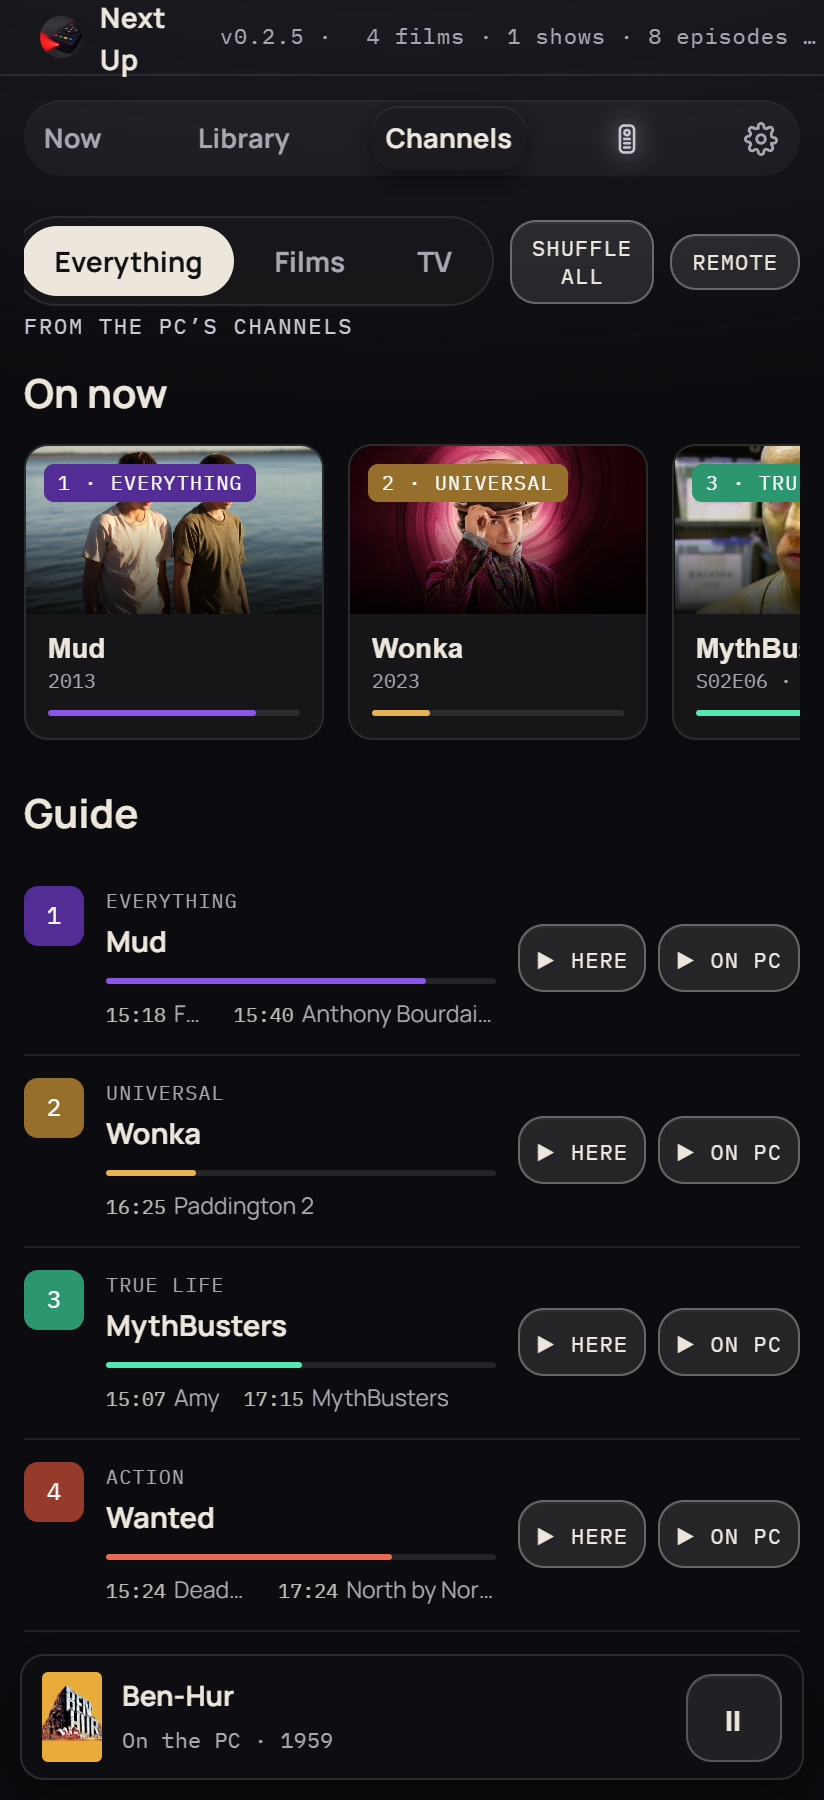
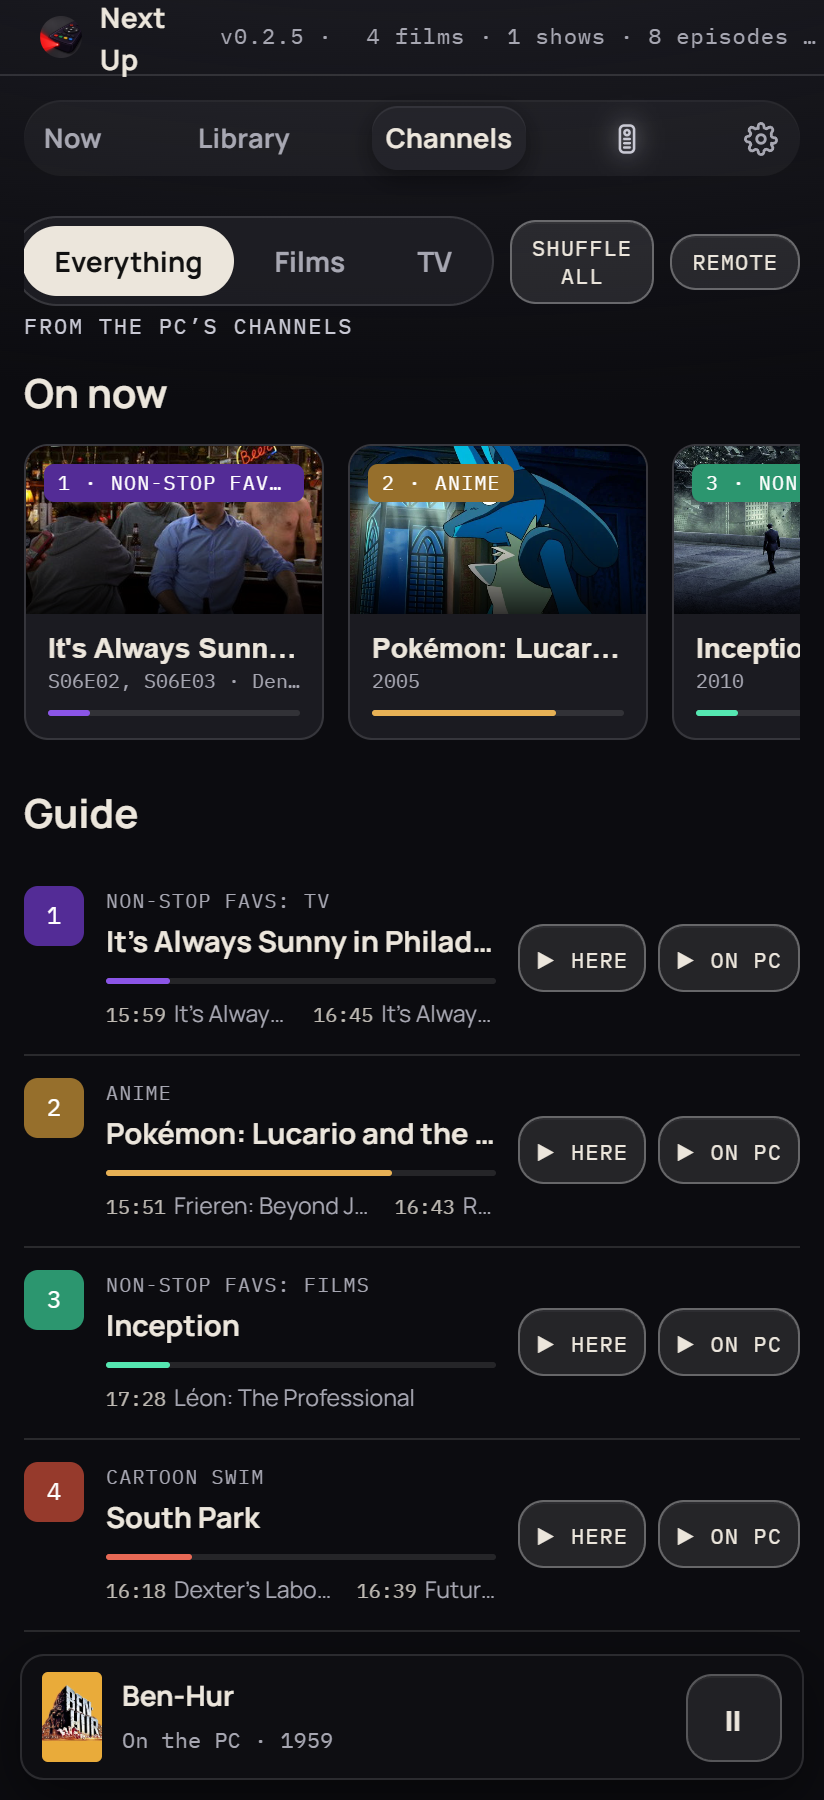
Rate: Films/TV and Refresh up in the header row; README: Films, Hall of Fame, Settings, Now's genres, an open episode, a guide hover in your channel order, and what Watch in order means
Also tests: phone_serve drains the pretend PC's output (it hung after a minute), and NEXTUP_KEEP_CHANNEL_ORDER keeps your channel order in a sandbox.

diff --git a/nextup.py b/nextup.py
@@ -17735,6 +17735,16 @@ body.android .gnowpic{height:84px}
   font-family:var(--display);font-weight:700;font-size:14px;cursor:pointer}
 .ratmode[aria-selected="true"]{background:var(--paper);color:#111}
 .ratmode #ratleft{font-family:var(--mono);font-weight:400;font-size:11px;opacity:.75}
+/* Films / TV shows and Refresh, in the header's row (2026-10-28): the
+   queue had a whole filter bar to itself, a third of the page before the
+   film. Refresh sits at the far end, quieter than the switch. */
+.ratkindbtn{background:none;border:0;border-radius:999px;padding:8px 16px;color:var(--muted);
+  font-family:var(--display);font-weight:700;font-size:14px;cursor:pointer}
+.ratkindbtn[aria-selected="true"]{background:rgba(255,255,255,.12);color:var(--paper)}
+.ratkindbtn:hover{color:var(--paper)}
+.ratrefresh{margin-left:auto;background:none;border:1px solid var(--line);border-radius:999px;padding:9px 18px;
+  color:var(--paper);font-family:var(--mono);font-size:11px;letter-spacing:.08em;text-transform:uppercase;cursor:pointer}
+.ratrefresh:hover{border-color:var(--muted);background:var(--ink-2)}
 .famehead{margin:0 0 16px}
 .famehead h2{margin:0 0 4px;font-size:24px}
 .famehead p{margin:0;color:var(--muted)}
@@ -20793,20 +20803,20 @@ body.android #view-settings{overflow-x:hidden}
         <div class="ratswitch hidden" id="fameback">
           <button type="button" class="ratpill">‹ All shelves</button>
         </div>
+        <div class="ratswitch ratkind" id="ratkind" role="tablist" aria-label="What to rate">
+          <button type="button" class="ratkindbtn" data-kind="film" role="tab" aria-selected="true">Films</button>
+          <button type="button" class="ratkindbtn" data-kind="tv" role="tab">TV shows</button>
+        </div>
+        <select id="rate_kind" hidden>
+          <option value="film">Films</option>
+          <option value="tv">TV shows</option>
+        </select>
+        <button type="button" class="ratrefresh" id="rate_refresh" title="Pick a new set to rate">Refresh queue</button>
       </div>
       <div class="famehead" id="fametitle"></div>
     </div>
     <div id="view-fame"></div>
     <div id="view-rate">
-  <div class="filters">
-    <label class="f"><span>Queue</span>
-      <select id="rate_kind">
-        <option value="film">Films</option>
-        <option value="tv">TV shows</option>
-      </select>
-    </label>
-    <button class="spin" id="rate_refresh">Refresh queue</button>
-  </div>
   <div id="rate-out"><p class="empty">Loading…</p></div>
   <section>
     <div class="sechead">
@@ -25506,6 +25516,8 @@ function drawRatingsPlace(){
   if(ratMode === 'rate'){ fameTitle(null); $('#fameback').classList.add('hidden'); }
   $('#view-fame').classList.toggle('hidden', ratMode !== 'fame');
   $('#view-rate').classList.toggle('hidden', ratMode !== 'rate');
+  $('#ratkind').classList.toggle('hidden', ratMode !== 'rate');
+  $('#rate_refresh').classList.toggle('hidden', ratMode !== 'rate');
   if(ratMode === 'rate'){ staleRatings = false; loadRatings(); }
   else loadFame();
 }
@@ -25828,6 +25840,13 @@ function drawTopLists(){
 }
 
 $('#rate_kind').onchange = () => { queueIndex = 0; drawQueue(); };
+/* Films or TV shows, as the same kind of switch as Hall of Fame / Rate
+   beside it; the select stays as what the queue reads. */
+document.querySelectorAll('.ratkindbtn').forEach(b => b.onclick = () => {
+  document.querySelectorAll('.ratkindbtn').forEach(x => x.setAttribute('aria-selected', String(x === b)));
+  $('#rate_kind').value = b.dataset.kind;
+  $('#rate_kind').onchange();
+});
 $('#rate_refresh').onclick = () => loadRatings(true);
 
 /* ================= CHANNELS ================= */

diff --git a/tests/phone_serve.py b/tests/phone_serve.py
@@ -107,6 +107,10 @@ if WITH_PC:
                           stdin=subprocess.PIPE, stdout=subprocess.PIPE, text=True, env=pc_env)
     n.CONFIG["pc_link"] = {"token": pc.stdout.readline().strip(), "pc": n.snapshot_device_name(),
                            "pc_id": "", "port": PC_PORT, "addresses": ["127.0.0.1"], "last_ip": None}
+    # Keep reading what the pretend PC prints after the token: left unread,
+    # its pipe filled after a minute or so and every call to it hung on a
+    # print until the phone's 30-second timeout said the PC was away.
+    threading.Thread(target=lambda: [None for _ in pc.stdout], daemon=True).start()
     print("pretend PC on %d: %s" % (PC_PORT, "up" if n.pc_link_check(force=True)["up"] else "NOT up"), flush=True)
 
 n.prepare_app()

diff --git a/tests/devserve.py b/tests/devserve.py
@@ -39,7 +39,10 @@ def isolate(n, sandbox):
     n.CONFIG["sync_folder"] = ""
     # The channels in the order the code lists them, not the one you've
     # set in the real app: the tests count on knowing which is which.
-    n.CONFIG.pop("channel_order", None)
+    # NEXTUP_KEEP_CHANNEL_ORDER=1 keeps yours, for screenshots that should
+    # look like your own guide; the phone sandbox's pretend PC inherits it.
+    if not os.environ.get("NEXTUP_KEEP_CHANNEL_ORDER"):
+        n.CONFIG.pop("channel_order", None)
     if hasattr(n, "apply_channel_order"):
         n.apply_channel_order()
     with open(n.CONFIG_PATH, "w", encoding="utf-8") as fh:

diff --git a/README.md b/README.md
@@ -12,27 +12,43 @@ Downloads are on the [Releases page](https://github.com/jameshghc/NextUp/release
 
 ## What it looks like
 
-**Now** picks one thing for tonight and says why, with everything you're part-way through along the top.
+**Now** picks one thing for tonight and says why, with everything you're part-way through along the top. Narrow it down with Anything, Film or TV and the genres beside it; **NEXT** for another.
 
-![The Now page](docs/screenshots/now.png)
+![The Now page, with the genres open](docs/screenshots/now.png)
 
-**Channels** are TV channels made from your own collection, always on, with a guide. There are 22 of them, from Action, Comedy and Saturday Morning cartoons to Anime, World Cinema, In Black & White and your Watchlist, plus Directors Cut and Type Cast, which run one director's or actor's films back to back.
+**The Library** has everything you own as posters: sort it by your own score, TMDB's, what's new or what you watched last, and search by title, director, actor or genre. Your score is in the corner; the heart is a favourite.
 
-![The Channels guide](docs/screenshots/channels.png)
+![Films in the Library](docs/screenshots/films.png)
+
+**Channels** are TV channels made from your own collection, always on, with a guide. There are 22 of them, from Action, Comedy and Saturday Morning cartoons to Anime, World Cinema, In Black & White and your Watchlist, plus Directors Cut and Type Cast, which run one director's or actor's films back to back. Put them in whatever order you like by changing a channel's number. Hover over anything to see what it is; a block of a few episodes shows which one's on now and what's after it.
+
+![The Channels guide, hovering over a run of Arrested Development](docs/screenshots/channels.png)
 
 **Recommendations** finds what's missing: the rest of a series or a collection you've started, and films and shows like the ones you rate highly. **REFRESH** works out a new lot.
 
 ![Recommendations](docs/screenshots/recs.png)
 
-Every film and show has its own page with the cast, what else you own of theirs, similar films you have, and season-by-season scores for a show.
+**A film's page** has the cast and what else you own of theirs, similar films you have, and the facts: release, budget, box office. Films not in English say what language they're in.
 
-| A film | A show |
-|---|---|
-| ![A film's page](docs/screenshots/film.png) | ![A show's page](docs/screenshots/show.png) |
+![A film's page](docs/screenshots/film.png)
 
-**Rate** works through what you haven't scored yet. The more you rate, the better everything else gets.
+**A show's page** has scores for every season and episode. Click an episode's name for its picture, plot, director and guest stars; click its code (S02E03) to say you're up to there.
+
+![A show's page, with an episode open](docs/screenshots/show.png)
+
+**Watch in order.** Some shows you dip into anywhere (Seinfeld, Always Sunny); others are one story (Arcane, Attack on Titan), where a random episode is the wrong thing to be offered. A show that's in order is only ever suggested at the episode you're up to, on Now, Home and the channels, and the purple arrow on its poster says so. Next Up guesses which kind a show is from its genre and how you've been watching it, and says *(guessed)* until you decide: press **WATCH IN ORDER** on the show's page to switch it on or off.
+
+**Rate** works through what you haven't scored yet, films or TV shows. The more you rate, the better everything else gets.
 
 ![The Rate page](docs/screenshots/rate.png)
+
+**Hall of Fame** is what you've rated, on shelves: your top 12, your top TV, and the best of every genre.
+
+![The Hall of Fame](docs/screenshots/fame.png)
+
+**Settings › Appearance** changes the look: Classic, Glass or Silver, three fonts, an accent colour, how strong the glass is, how much of the film's art shows behind the page, and how round the corners are.
+
+![Settings › Appearance](docs/screenshots/settings.png)
 
 ### On the phone
 

diff --git a/CHANGELOG.md b/CHANGELOG.md
@@ -14,6 +14,7 @@ What changed in Next Up, version by version, newest first. Version numbers start
 - The guide, episode by episode: a block of two or three episodes has a dashed line where each new one starts, and in the one on now, the episode playing is lit. Hovering it shows that episode (its picture, blurb and times, "2 OF 3") and the one after it, rather than always the first; the On now card follows it too.
 - Directors Cut and Type Cast show whose films they are: a bracket over each person's run, with their name on it, and the name on the hover card.
 - A film made in another language says so: a small tag with the language (FRENCH, JAPANESE, SWEDISH…) beside its facts on its page, on the guide's hover cards, and on a Recommendations card's hover. English films have none.
+- Rate: Films / TV shows and Refresh queue are in the same row as Hall of Fame / Rate, Films and TV as the same kind of switch, rather than a filter bar of their own under it. The film starts about a hundred pixels higher.
 - History's rule, simpler: a minute or more of play that you ended — stopping, switching to something else, or reaching the end — is a watch. One the sleep timer closed isn't, however long it ran (it now notes when it does). Replaces 0.2.4's two-minute bar and its "how far into the programme" rule.
 - Fixed: the bar along the top of the window was see-through, so a details page scrolled up under it showed its pictures behind the name and the counts. It wears the page's own background now, looking just as it did, but solid.
 - Shows can be put right like films: **WRONG MATCH?** on a show's page looks it up again under the title and the year it started, and fetches its episodes afresh. And a show's year in its folder name now decides between shows of the same name — "One Piece (1999)" had come out as the 2023 Netflix series rather than the anime.

diff --git a/WHATS_NEW.md b/WHATS_NEW.md
@@ -16,6 +16,7 @@ The short version, newest first. CHANGELOG.md has every detail.
 - When a block on Channels is a few episodes back to back, there's a line between each one, and hovering shows the episode that's actually on, not just the first.
 - Directors Cut and Type Cast now show whose films you're watching, with their name over their run.
 - Foreign films get a little tag saying what language they're in, on their page and when you hover them. Turns out March of the Penguins is French.
+- The Rate page is tidier at the top: Films or TV and Refresh sit up beside Hall of Fame / Rate, so there's less empty space before the film.
 - On the phone, Channels shows each channel's now and next two, with HERE and ON PC.
 - Shows can be put right like films: WRONG MATCH? on a show's page looks it up again and fetches its episodes fresh.
 - The year in a show's folder name now picks between shows with the same name, so One Piece is the anime, not the Netflix one.

diff --git a/DEVELOPMENT_NOTES.md b/DEVELOPMENT_NOTES.md
@@ -38,6 +38,13 @@ default to it.
   frameless window on Windows), the Films tags (`FILM_TAGS`), Hall of Fame
   fit (`genre_fit`) and trophies (`fame_firsts`), History's two-minute bar
   (`HISTORY_MIN_SECONDS`), `real_sittings`, `set_up_to`.
+- Rate's queue controls live in `.ratrow` now: `#ratkind` (`.ratkindbtn`,
+  setting the hidden `#rate_kind` select the queue still reads) and
+  `.ratrefresh`, both hidden by `drawRatingsPlace` on the Hall of Fame.
+- `tests/phone_serve.py --with-pc` drains the pretend PC's stdout: unread,
+  the pipe filled and every call to it hung until the phone's 30s timeout.
+  `NEXTUP_KEEP_CHANNEL_ORDER=1` makes `devserve.isolate` keep your own
+  channel order, for screenshots (the README's are in docs/screenshots).
 
 ## 2026-10-27 — v0.2.4, Ratings in the Library: the Hall of Fame
 
